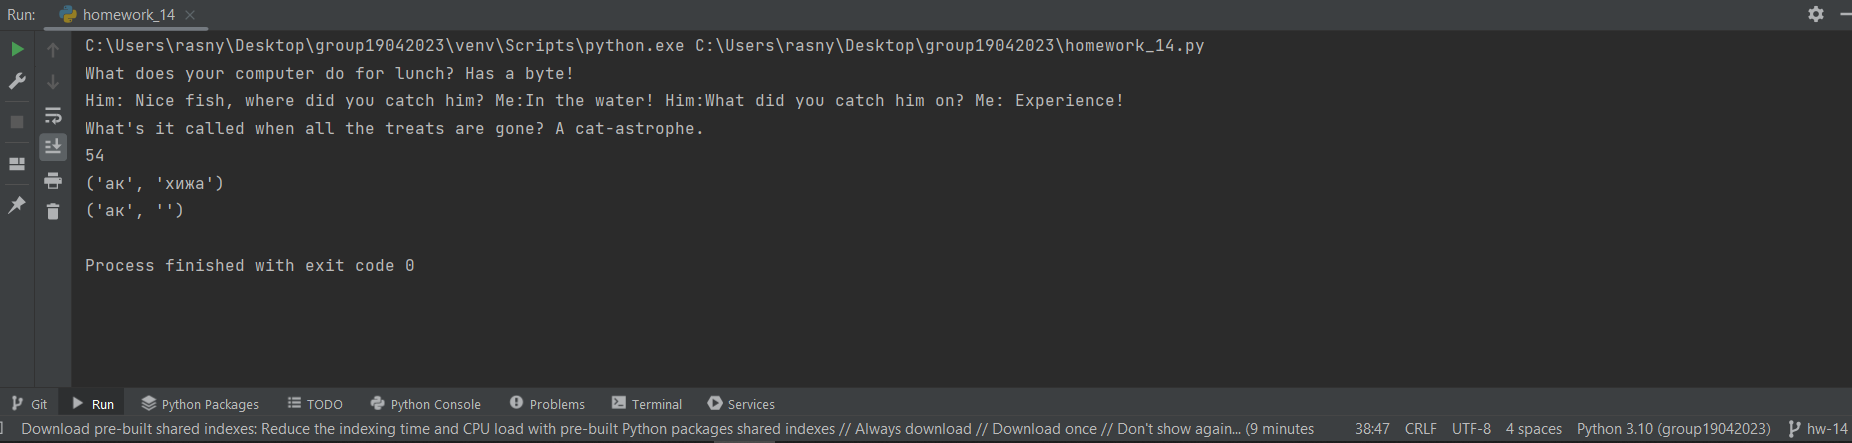
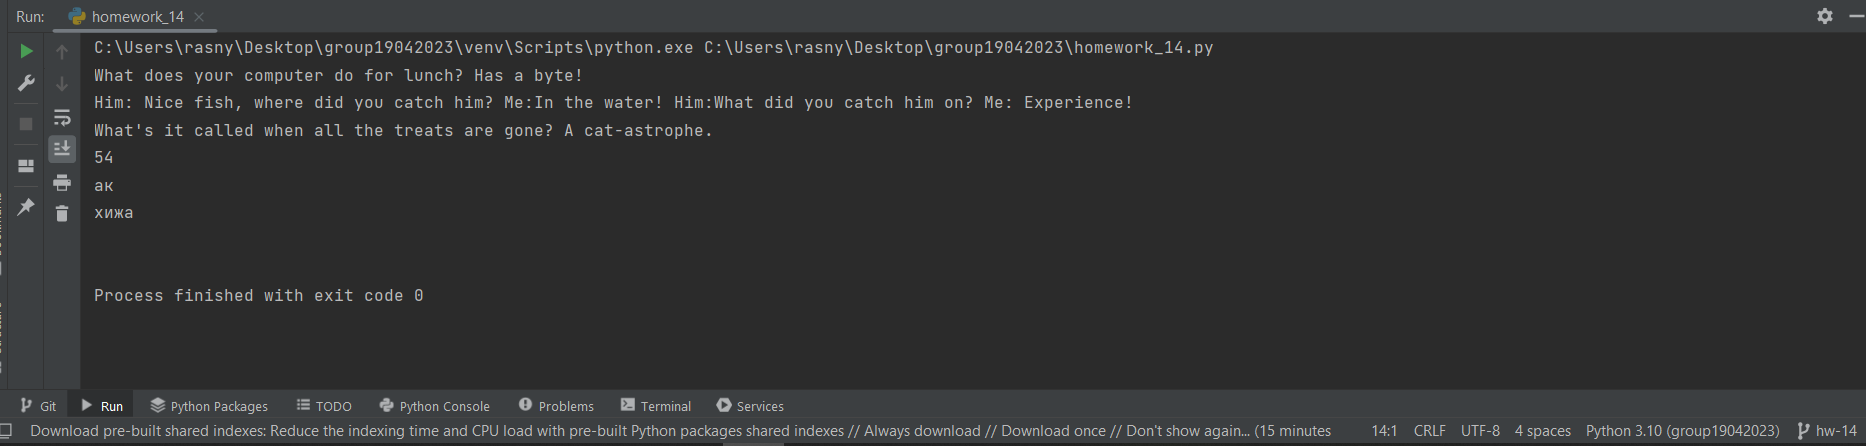
Fixed bugs homework - 14

diff --git a/homework_14.py b/homework_14.py
@@ -1,4 +1,4 @@
-def turn_number_into_joke(number) -> str:
+def turn_number_into_joke(number: int) -> str:
     """Task 1"""
     joke_school = 'What does your computer do for lunch? Has a byte!'
     joke_fisherman = 'Him: Nice fish, where did you catch him? Me:In the water! Him:What did you catch him on? Me: ' \
@@ -26,18 +26,23 @@ def rectangle_perimeter(width, length) -> float:
 print(rectangle_perimeter(24, 3))
 
 
-def deletes_letters_in_string(word1: str, word2: str, word3: str):
+def deletes_letters_in_string(input_word: str) -> str:
     """Task 3"""
-    for letter in word1:
+    for letter in input_word:
         if letter.lower() in ('ї', 'ж'):
-            word1 = word1.replace(letter, '')
-    word2 = word2.lower()
-    word3 = word3.lower()
-    for letters in word3:
-        if letters in word2:
-            word2 = word2.replace(letters, '')
-    return word1, word2
+            input_word = input_word.replace(letter, '')
+    return input_word
 
 
-print(deletes_letters_in_string("Їжак", 'хижак', 'вікно'))
-print(deletes_letters_in_string("їжак", 'вОно', 'вікно'))
+def deletes_common_letters(original_word: str, word_to_compare: str) -> str:
+    original_word = original_word.lower()
+    word_to_compare = word_to_compare.lower()
+    for letters in word_to_compare:
+        if letters in original_word:
+            original_word = original_word.replace(letters, '')
+    return original_word
+
+
+print(deletes_letters_in_string('Їжак'))
+print(deletes_common_letters('хижак', 'вікно'))
+print(deletes_common_letters('вОно', 'вікно'))
